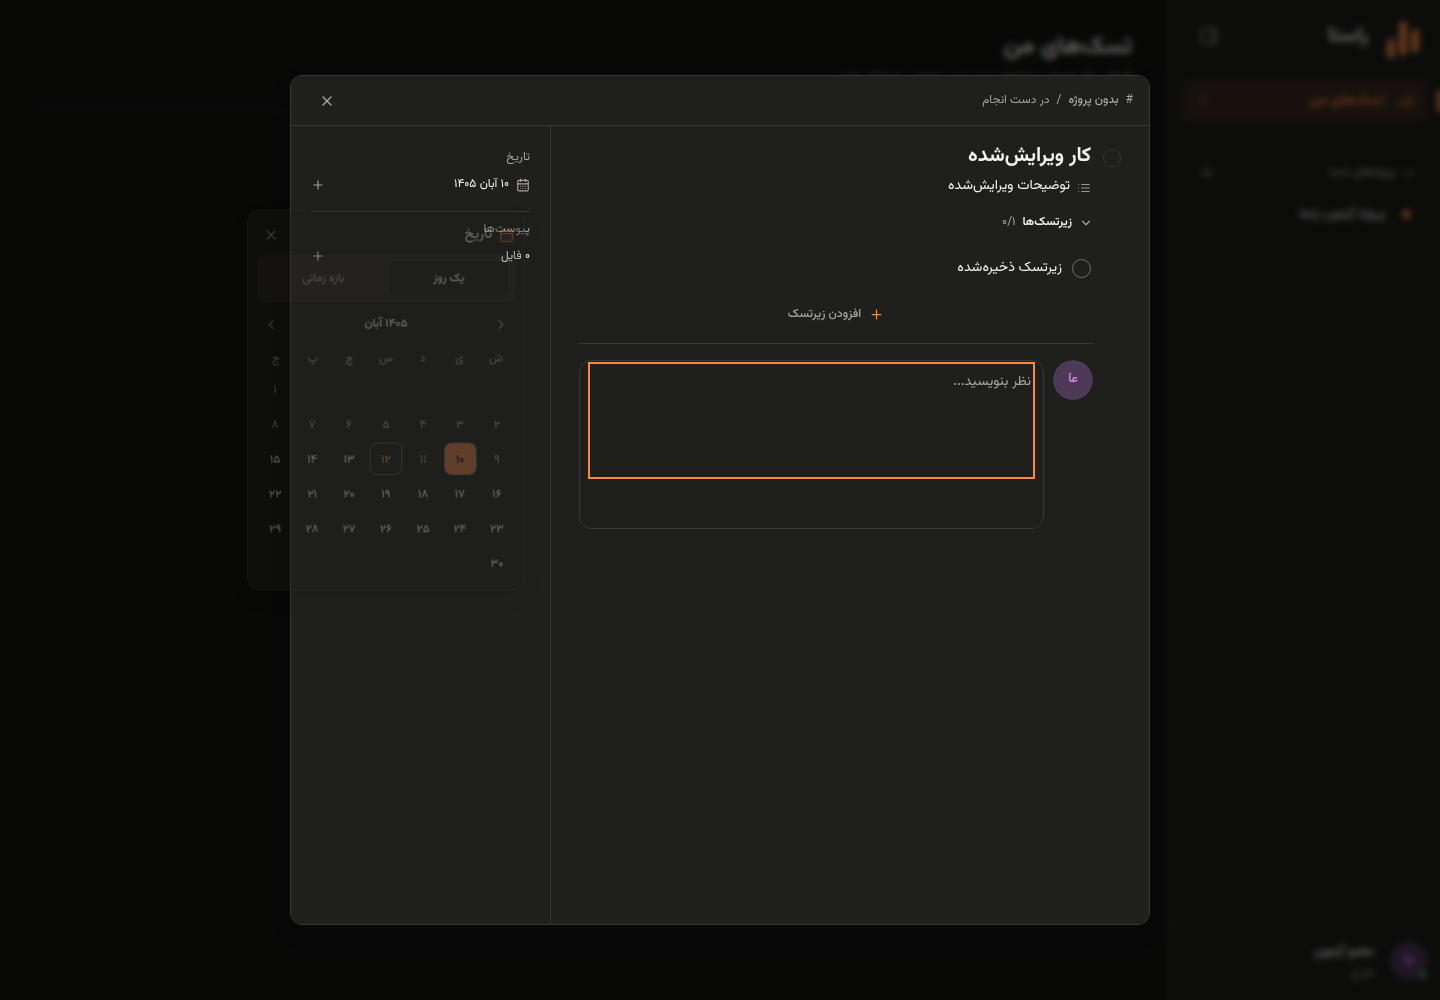
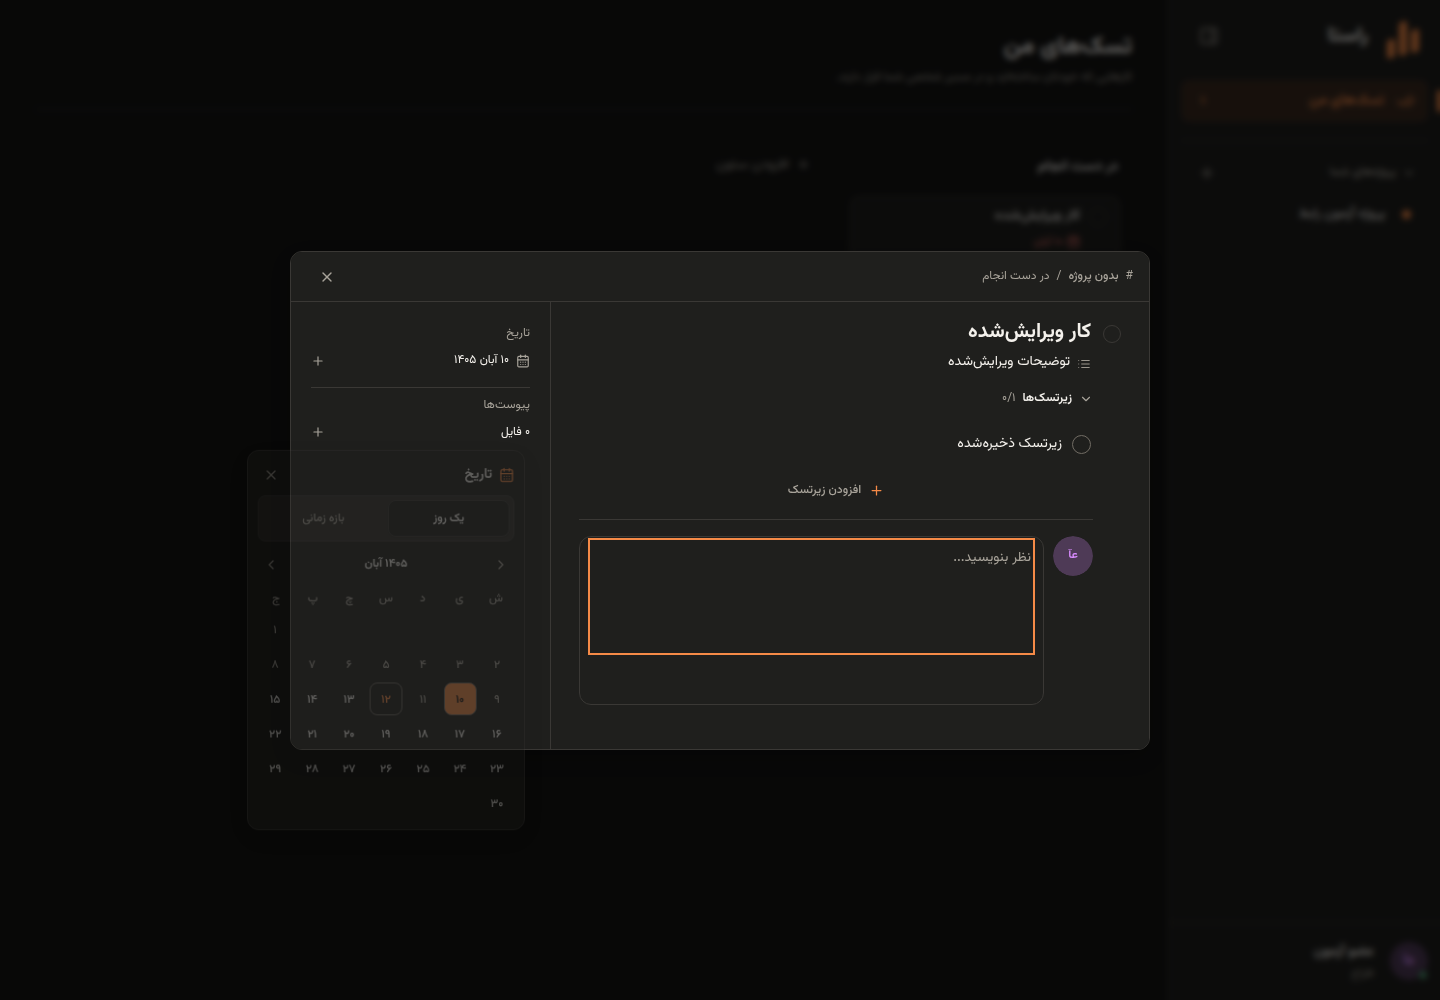
Polish hierarchy in errors, empty states, and dialogs.
Field errors now use the shared caption and border, empty-state titles stand apart from their description, the task dialog fits its content, and destructive footer actions sit apart from the primary group.

diff --git a/resources/css/app.css b/resources/css/app.css
@@ -1722,7 +1722,12 @@ fieldset {
 }
 .empty-state h2,
 .empty-state h3 {
+    color: var(--text-primary);
+}
+.empty-state p {
+    max-width: 36em;
     color: var(--text-muted);
+    text-align: center;
 }
 .empty-state > span svg {
     width: 35px;
@@ -3923,7 +3928,7 @@ fieldset {
 .modal-panel.task-modal-panel {
     width: min(860px, calc(100vw - 32px));
     max-width: 860px;
-    height: 85vh;
+    height: auto;
     max-height: 85vh;
     border-radius: var(--radius-card);
     overflow: hidden;
@@ -3932,6 +3937,19 @@ fieldset {
     box-shadow: 0 16px 48px color-mix(in srgb, var(--scrim) 18%, transparent);
 }
 .modal-panel.task-modal-panel > .modal-heading { display: none; }
+.modal-panel.task-modal-panel > .todoist-task-modal {
+    flex: 1 1 auto;
+    height: auto;
+    min-height: 0;
+    max-height: 100%;
+}
+.modal-panel.task-modal-panel .task-modal-grid {
+    flex: 1 1 auto;
+}
+.modal-panel.task-modal-panel .task-modal-main,
+.modal-panel.task-modal-panel .task-details-panel {
+    min-height: 0;
+}
 .todoist-task-modal {
     height: 100%;
     display: flex;
@@ -6317,12 +6335,6 @@ select:disabled {
     color: var(--accent);
     box-shadow: 0 1px 3px color-mix(in srgb, var(--scrim) 18%, transparent);
 }
-.gate-card .login-error {
-    display: block;
-    margin-block: 0 12px;
-    padding: 10px 12px;
-    font-size: var(--text-caption-size);
-}
 .security-settings {
     margin-block-end: 24px;
 }
@@ -7815,6 +7827,9 @@ html:has(.project-wizard-form), body:has(.project-wizard-form) { overflow: hidde
 }
 .modal-footer > .button-primary {
     order: 1;
+}
+.modal-footer > .button-danger {
+    margin-inline-end: auto;
 }
 .confirm-dialog > .confirm-actions {
     direction: rtl;

diff --git a/resources/views/auth.blade.php b/resources/views/auth.blade.php
@@ -1,1 +1,1 @@
-<!DOCTYPE html><html lang="fa" dir="rtl" class="dark" data-theme="dark" data-theme-preference="dark"><head><link rel="icon" type="image/svg+xml" href="/favicon.svg"><meta charset="utf-8"><meta name="viewport" content="width=device-width,initial-scale=1"><meta name="theme-color" content=""><title>راستا — هر قدم، نزدیکتر به هدف</title>@vite(['resources/css/app.css','resources/js/app.js'])<script>const themeMeta=document.querySelector("meta[name=theme-color]");if(themeMeta)themeMeta.content=getComputedStyle(document.documentElement).getPropertyValue("--surface-page").trim()</script></head><body><main class="gate-page page-enter" x-data="{saving:false,mode:'member'}"><section class="gate-card"><a class="brand" href="/login"><span class="brand-symbol"><span></span><span></span><span></span></span><strong>راستا<small>هر قدم، نزدیکتر به هدف</small></strong></a><h1>به فضای کارتان خوش آمدید</h1><p class="muted">یک هدف روشن، یک قدم نزدیکتر.</p><div class="login-mode" role="group" aria-label="نوع ورود"><button type="button" :class="{'selected':mode==='member'}" :aria-pressed="(mode==='member').toString()" @click="mode='member'">عضو</button><button type="button" :class="{'selected':mode==='admin'}" :aria-pressed="(mode==='admin').toString()" @click="mode='admin'">مدیر</button></div>@error('mode')<small class="field-error">{{ $message }}</small>@enderror<form method="POST" action="/login" @submit="saving=true">@csrf<input type="hidden" name="mode" :value="mode"><label><span x-text="mode==='admin'?'پین مدیر':'پین مشترک اعضا'"></span><input type="password" name="pin" required inputmode="numeric" maxlength="12" autocomplete="current-password" autofocus></label>@error('pin')<small class="error-banner login-error">{{ $message }}</small>@enderror<button class="button button-primary" :disabled="saving" :aria-busy="saving?'true':'false'"><span class="button-spinner" x-show="saving" x-cloak x-html="$icon('LoaderCircle')"></span><span>ورود به فضای کار</span></button></form></section></main></body></html>
+<!DOCTYPE html><html lang="fa" dir="rtl" class="dark" data-theme="dark" data-theme-preference="dark"><head><link rel="icon" type="image/svg+xml" href="/favicon.svg"><meta charset="utf-8"><meta name="viewport" content="width=device-width,initial-scale=1"><meta name="theme-color" content=""><title>راستا — هر قدم، نزدیکتر به هدف</title>@vite(['resources/css/app.css','resources/js/app.js'])<script>const themeMeta=document.querySelector("meta[name=theme-color]");if(themeMeta)themeMeta.content=getComputedStyle(document.documentElement).getPropertyValue("--surface-page").trim()</script></head><body><main class="gate-page page-enter" x-data="{saving:false,mode:'member'}"><section class="gate-card"><a class="brand" href="/login"><span class="brand-symbol"><span></span><span></span><span></span></span><strong>راستا<small>هر قدم، نزدیکتر به هدف</small></strong></a><h1>به فضای کارتان خوش آمدید</h1><p class="muted">یک هدف روشن، یک قدم نزدیکتر.</p><div class="login-mode" role="group" aria-label="نوع ورود"><button type="button" :class="{'selected':mode==='member'}" :aria-pressed="(mode==='member').toString()" @click="mode='member'">عضو</button><button type="button" :class="{'selected':mode==='admin'}" :aria-pressed="(mode==='admin').toString()" @click="mode='admin'">مدیر</button></div>@error('mode')<small class="field-error">{{ $message }}</small>@enderror<form method="POST" action="/login" @submit="saving=true">@csrf<input type="hidden" name="mode" :value="mode"><label><span x-text="mode==='admin'?'پین مدیر':'پین مشترک اعضا'"></span><input type="password" name="pin" required inputmode="numeric" maxlength="12" autocomplete="current-password" autofocus>@error('pin')<small class="field-error">{{ $message }}</small>@enderror</label><button class="button button-primary" :disabled="saving" :aria-busy="saving?'true':'false'"><span class="button-spinner" x-show="saving" x-cloak x-html="$icon('LoaderCircle')"></span><span>ورود به فضای کار</span></button></form></section></main></body></html>

diff --git a/resources/views/security-setup.blade.php b/resources/views/security-setup.blade.php
@@ -19,20 +19,14 @@
         <form method="POST" action="/api/security/setup" @submit="saving=true">
             @csrf
             <h2>حساب مدیر</h2>
-            <label>نام و نام خانوادگی مدیر<input name="name" value="{{ old('name') }}" required maxlength="100" autocomplete="name"></label>
-            @error('name')<small class="field-error">{{ $message }}</small>@enderror
-            <label>عنوان شغلی<input name="job_title" value="{{ old('job_title') }}" required maxlength="100" autocomplete="organization-title"></label>
-            @error('job_title')<small class="field-error">{{ $message }}</small>@enderror
+            <label>نام و نام خانوادگی مدیر<input name="name" value="{{ old('name') }}" required maxlength="100" autocomplete="name">@error('name')<small class="field-error">{{ $message }}</small>@enderror</label>
+            <label>عنوان شغلی<input name="job_title" value="{{ old('job_title') }}" required maxlength="100" autocomplete="organization-title">@error('job_title')<small class="field-error">{{ $message }}</small>@enderror</label>
             <h2>پین مدیر</h2>
-            <label>پین جدید مدیر<input type="password" name="admin_pin" required inputmode="numeric" maxlength="12" autocomplete="new-password"></label>
-            @error('admin_pin')<small class="field-error">{{ $message }}</small>@enderror
-            <label>تکرار پین مدیر<input type="password" name="admin_pin_confirmation" required inputmode="numeric" maxlength="12" autocomplete="new-password"></label>
-            @error('admin_pin_confirmation')<small class="field-error">{{ $message }}</small>@enderror
+            <label>پین جدید مدیر<input type="password" name="admin_pin" required inputmode="numeric" maxlength="12" autocomplete="new-password">@error('admin_pin')<small class="field-error">{{ $message }}</small>@enderror</label>
+            <label>تکرار پین مدیر<input type="password" name="admin_pin_confirmation" required inputmode="numeric" maxlength="12" autocomplete="new-password">@error('admin_pin_confirmation')<small class="field-error">{{ $message }}</small>@enderror</label>
             <h2>پین مشترک اعضا</h2>
-            <label>پین مشترک اعضا<input type="password" name="member_pin" required inputmode="numeric" maxlength="12" autocomplete="new-password"></label>
-            @error('member_pin')<small class="field-error">{{ $message }}</small>@enderror
-            <label>تکرار پین مشترک اعضا<input type="password" name="member_pin_confirmation" required inputmode="numeric" maxlength="12" autocomplete="new-password"></label>
-            @error('member_pin_confirmation')<small class="field-error">{{ $message }}</small>@enderror
+            <label>پین مشترک اعضا<input type="password" name="member_pin" required inputmode="numeric" maxlength="12" autocomplete="new-password">@error('member_pin')<small class="field-error">{{ $message }}</small>@enderror</label>
+            <label>تکرار پین مشترک اعضا<input type="password" name="member_pin_confirmation" required inputmode="numeric" maxlength="12" autocomplete="new-password">@error('member_pin_confirmation')<small class="field-error">{{ $message }}</small>@enderror</label>
             <button class="button button-primary" type="submit" :disabled="saving" :aria-busy="saving?'true':'false'"><span class="button-spinner" x-show="saving" x-cloak x-html="$icon('LoaderCircle')"></span><span>تکمیل راهاندازی</span></button>
         </form>
     </section>
